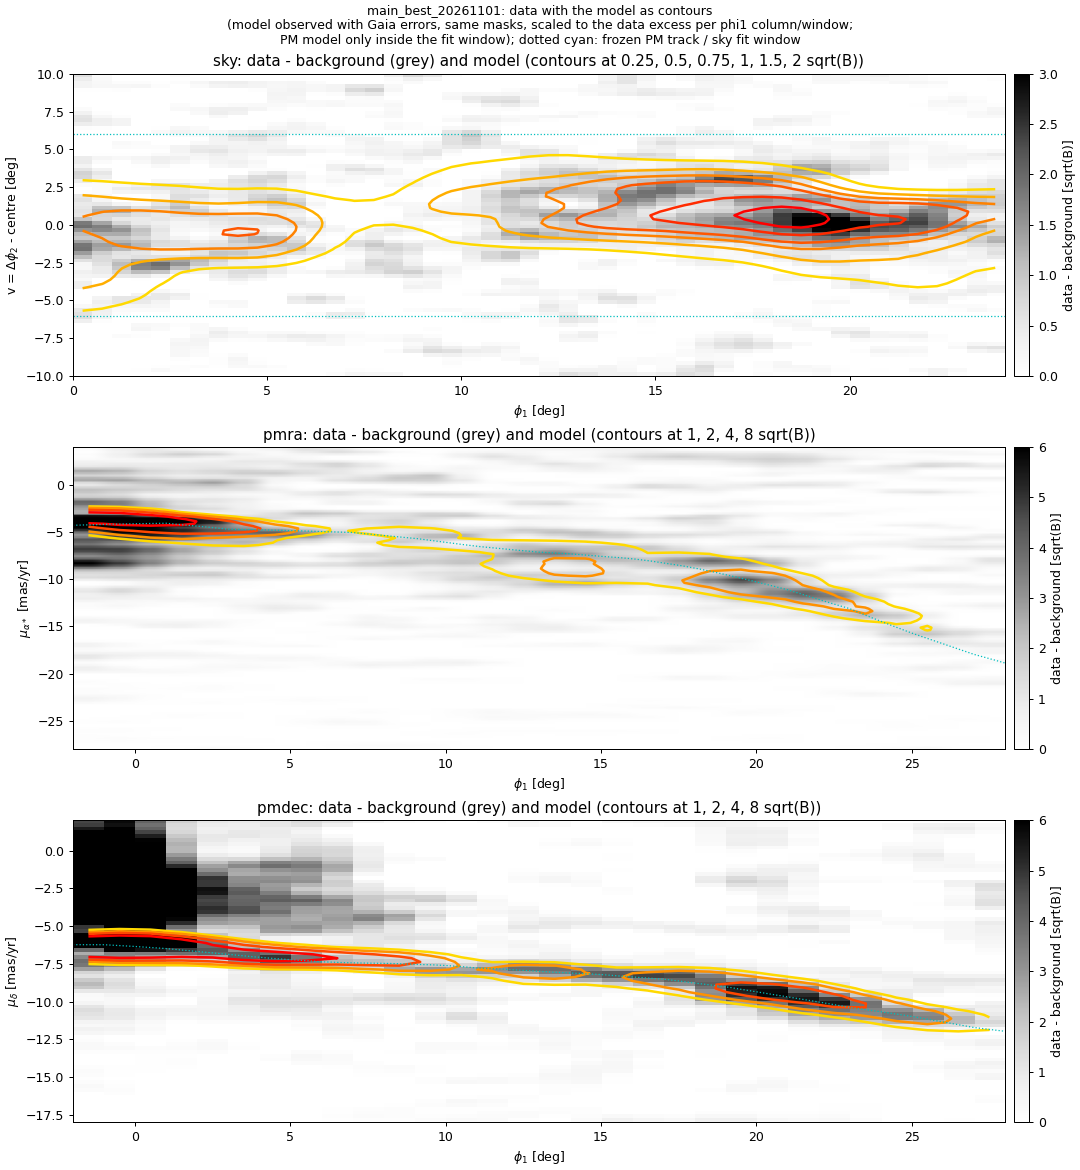
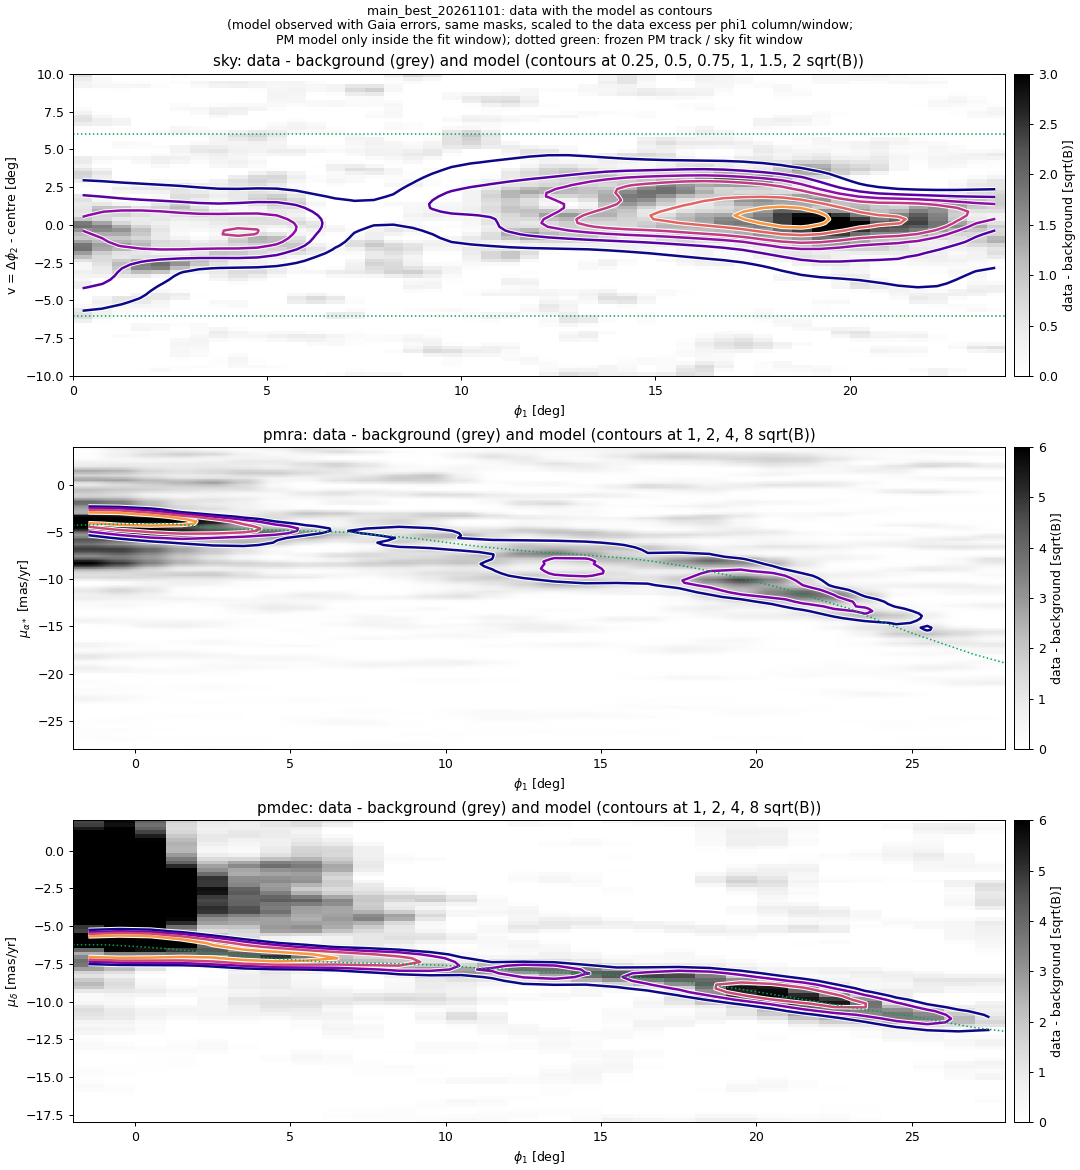
Model contours: dark plasma colours (blue -> magenta -> orange) with white halo; green track/window

diff --git a/bin/streams/stream_model_compare.py b/bin/streams/stream_model_compare.py
@@ -26,7 +26,7 @@ ROOT = Path(__file__).resolve().parents[2]; sys.path[:0] = [str(ROOT/"bin/stream
 FILES = [a for a in sys.argv[1:] if a.endswith(".npz")]
 TAG = ("_"+sys.argv[sys.argv.index("--tag")+1]) if "--tag" in sys.argv else ""
 sys.argv = [sys.argv[0], "--strip", "0"]                                    # stream_sky_local: no branch cut (its argv set-up)
-import matplotlib; matplotlib.use("Agg"); import matplotlib.pyplot as plt
+import matplotlib; matplotlib.use("Agg"); import matplotlib.pyplot as plt; import matplotlib.patheffects as pe
 from scipy.optimize import minimize
 from scipy.special import ndtr
 from scipy.ndimage import gaussian_filter
@@ -233,16 +233,18 @@ def model_maps(O, M):
         c1, cy = 0.5*(E1[1:]+E1[:-1]), 0.5*(Ey[1:]+Ey[:-1])
         lev = (0.25, 0.5, 0.75, 1., 1.5, 2.) if q == "sky" else (1., 2., 4., 8.)                      # sky: lower S/N per pixel
         Sc = gaussian_filter(np.nan_to_num(Sd), 1.5 if q == "sky" else 1.)                               # sky model: a bit smoother
-        cs = a.contour(c1, cy, Sc.T, levels=lev, colors=[plt.get_cmap("autumn_r")(0.15+0.85*i/(len(lev)-1)) for i in range(len(lev))],
-                       linewidths=2.0)
+        cs = a.contour(c1, cy, Sc.T, levels=lev, colors=[plt.get_cmap("plasma")(0.75*i/(len(lev)-1)) for i in range(len(lev))],
+                       linewidths=2.0)                                                                   # dark blue -> magenta
+        for col in (cs.collections if hasattr(cs, "collections") else [cs]):
+            col.set_path_effects([pe.Stroke(linewidth=3.6, foreground="white"), pe.Normal()])           # white halo on dark pixels
         a.set(xlim=xl, ylabel=lab, xlabel=r"$\phi_1$ [deg]", title=f"{q}: data - background (grey) and model (contours at {', '.join(f'{l:g}' for l in lev)} sqrt(B))")
         fig.colorbar(im, ax=a, pad=0.01, label="data - background [sqrt(B)]")
         if q != "sky":
-            g = np.linspace(-2, 28, 301); a.plot(g, O.ev(q, g), "c:", lw=1.0)
+            g = np.linspace(-2, 28, 301); a.plot(g, O.ev(q, g), ":", color="#00a651", lw=1.2)
         else:
-            a.axhline(6, color="c", ls=":", lw=1.0); a.axhline(-6, color="c", ls=":", lw=1.0)
+            a.axhline(6, color="#00a651", ls=":", lw=1.2); a.axhline(-6, color="#00a651", ls=":", lw=1.2)
     fig.suptitle(f"{Path(M['file']).stem}: data with the model as contours\n(model observed with Gaia errors, same masks, scaled to the data excess per phi1 column/window;\n"
-                 f"PM model only inside the fit window); dotted cyan: frozen PM track / sky fit window", fontsize=10)
+                 f"PM model only inside the fit window); dotted green: frozen PM track / sky fit window", fontsize=10)
     out = ROOT/f"plots/stream_model_contours_{Path(M['file']).stem}.png"; fig.savefig(out, dpi=90); print(out.relative_to(ROOT))
 
 
